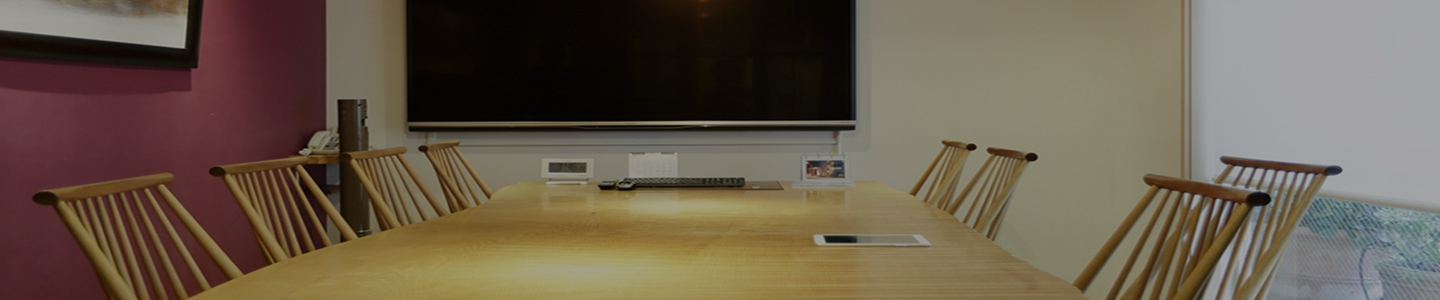
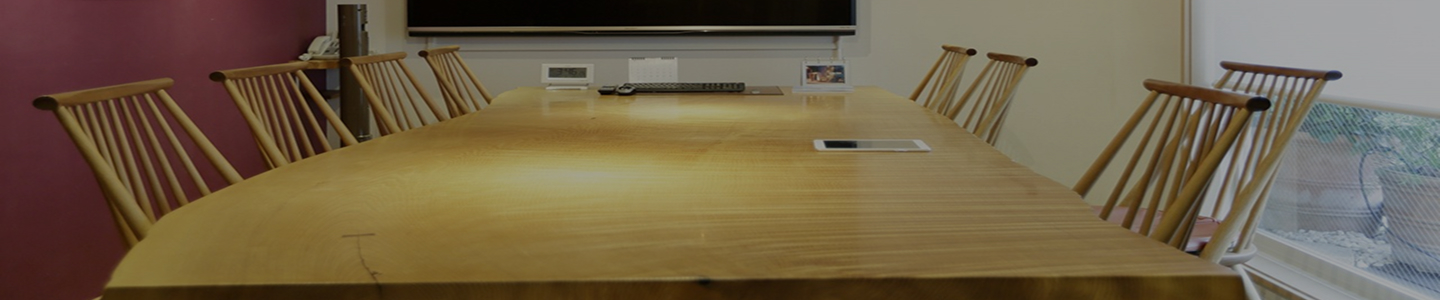
doing

diff --git a/style.css b/style.css
@@ -376,7 +376,7 @@ header {
 header .container {
   height: 100%;
   max-width: 1420px;
-  padding: 20px 0;
+  padding: 15px 0;
 }
 
 header nav #btn-toggler {
@@ -469,19 +469,20 @@ header .btn-area {
 @media (max-width: 767px) {
 
   header {
-    height: 80px;
+    height: 60px;
   }
 
   header .container {
-    padding: 15px 0;
+    padding: 10px 0;
   }
 
   header nav {
     position: relative;
   }
 
-  header nav img:first-child {
+  header nav .header-logo {
     margin-left: 10px;
+    height: 40px;
   }
 
   #menu-main {
@@ -623,18 +624,18 @@ header .btn-area {
   }
 
   header #btn-toggler .toggler-bar:nth-of-type(1) {
-    top: 0px;
+    top: 3px;
     right: 5px;
   }
 
   header #btn-toggler .toggler-bar:nth-of-type(2) {
-    top: 8px;
+    top: 11px;
     right: 5px;
     width: 18px;
   }
 
   header #btn-toggler .toggler-bar:nth-of-type(3) {
-    top: 16px;
+    top: 19px;
     right: 5px;
     width: 11px;
   }
@@ -1018,8 +1019,8 @@ footer {
   letter-spacing: 5px;
   background: url(images/top/top_about_bg.webp);
   background-repeat: no-repeat;
-  background-size: 123%;
-  background-position: bottom;
+  background-size: 146%;
+  background-position: center;
 }
 
 #home #about .circle-area {
@@ -1044,7 +1045,6 @@ footer {
 #home #about .description {
   margin-bottom: 20px;
   font-size: 16px;
-  font-weight: bold;
 }
 
 #home #about .description:last-of-type {
@@ -1369,6 +1369,7 @@ footer {
   background: url(images/company/company_header.jpg);
   background-size: cover;
   background-repeat: no-repeat;
+  background-position: bottom;
   position: relative;
 }
 
@@ -2133,23 +2134,24 @@ footer {
 **********************************************************/
 
 #rentry #firstview {
-  height: 300px;
-  padding: 0;
-  background: url(images/rentry/rentry_header.jpg);
-  background-size: cover;
-  background-repeat: no-repeat;
+  height: 250px;
+  padding: 70px 0;
+  background: #F2F5F6;
+  border-bottom: 1px solid #d6d6d6;
   position: relative;
 }
 
 #rentry #firstview .container {
-  display: flex;
-  justify-content: center;
-  align-items: center;
-  height: 100%;
+  display: block;
+  letter-spacing: 2px;
+  text-align: center;
 }
 
-#rentry #firstview .container h1 {
-  color: #ffffff;
+
+#rentry #firstview h1 {
+  font-size: 44px;
+  color: #375D52;
+  margin-bottom: 30px;
 }
 
 #rentry #content h2 {

diff --git a/page-about.php b/page-about.php
@@ -34,13 +34,13 @@ get_header(); ?>
   <div class="container">
 
     <div class="circle-area">
-      <div class="col-liq-5">
+      <div class="col-5">
         <img src="<?=$r?>/images/top/circle_st.png" alt="S&T">
       </div>
-      <div class="col-liq-2">
+      <div class="col-2">
         <img src="<?=$r?>/images/top/icon_cross.png" alt="cross">
       </div>
-      <div class="col-liq-5">
+      <div class="col-5">
         <img src="<?=$r?>/images/top/circle_more.png" alt="S&T more">
       </div>
     </div>

diff --git a/page-rentry.php b/page-rentry.php
@@ -6,15 +6,14 @@ get_header(); ?>
 
 <section id="firstview">
   <div class="container">
-    <h1 class="shippori">株式会社エスアンドティ 採用情報</h1>
+    <h1 class="shippori">Entry</h1>
+    <h2 class="shippori">募集要項</h2>
   </div>
 </section>
 
 <section id="content">
   <div class="container">
 
-    <h2 class="shippori">Entry</h2>
-    <h3 class="shippori">募集要項</h3>
     <h4>不動産業の経験がない方も歓迎です。まずはお気軽にご応募ください。</h4>
 
     <table>

diff --git a/page-rental_management.php b/page-rental_management.php
@@ -23,7 +23,7 @@ get_header(); ?>
       <div class="btn-2">
         <p class="first">入居率</p>
         <p class="second"><span class="oswald">99.2</span>%</p>
-        <p class="third">＜2024年＞</p>
+        <p class="third">＜2024年度＞</p>
       </div>
     </div>
 
@@ -90,7 +90,7 @@ get_header(); ?>
           <span>蕨市を中⼼に<br class="sp-hide">多数の管理物件がございます</span>
         </h3>
         <p>
-          当社のお取り扱い物件数は、蕨市を中⼼に1200⼾以上を超え、駐⾞場は1000台以上を管理しております。豊富な物件数を管理しているからこそのノウハウをオーナー様に提供できます。
+          当社の管理戶数は、蕨市を中心に1200戶以上、駐車場も1200台以上を管理・運営しております。豊富な物件数を管理しているからこそ、そのノウハウをオーナー様に提供することができます。
         </p>
       </div>
       <div class="col-liq-6">

diff --git a/header.php b/header.php
@@ -53,14 +53,13 @@ global $post; ?>
         <nav>
 
           <a href="/">
-            <img src="<?=$r?>/images/header/logo.svg" alt="S&T Group">
+            <img src="<?=$r?>/images/header/logo.svg" alt="S&T Group" class="header-logo">
           </a>
 
           <div class="nav-area">
             <div class="sp-wrap">
               <img src="<?=$r?>/images/header/cross.svg" id="close" class="sp-show cross" alt="Xボタン">
               <div style="clear:both;margin-bottom:10px;"></div>
-              <img src="<?=$r?>/images/footer/footer_logo_sp.svg" class="sp-show" style="margin-bottom:20px;" alt="ロゴ">
               <div class="other-link">
                 <p class="sp-show bottom">
                   <span>

diff --git a/footer.php b/footer.php
@@ -101,7 +101,7 @@ $r = get_template_directory_uri(); ?>
               <p style="line-height:1.8;margin:10px 0;">株式会社エスアンドティ<br>SPACE AND TRADE INCORPORATION</p>
               <p style="margin-bottom:20px;">〒335-0004 埼玉県蕨市中央5-12-13</p>
               <p style="font-size:20px;margin-bottom:20px;">TEL.[phone redacted]</p>
-              <a href="https://www.instagram.com/sandt_warabi/" target="_blank">
+              <a href="https://www.instagram.com/sandt_official/" target="_blank">
                 <p style="display:flex;align-items:center;gap:10px;margin-bottom:20px;">
                   <img src="<?=$r?>/images/footer/instagram.svg" alt="instagram">
                   公式アカウント sandt_official